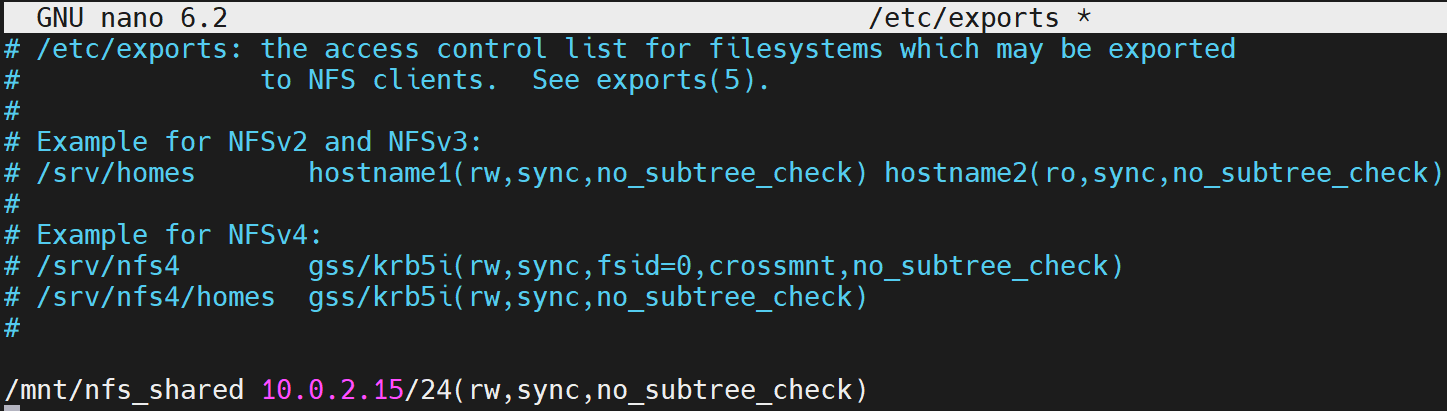
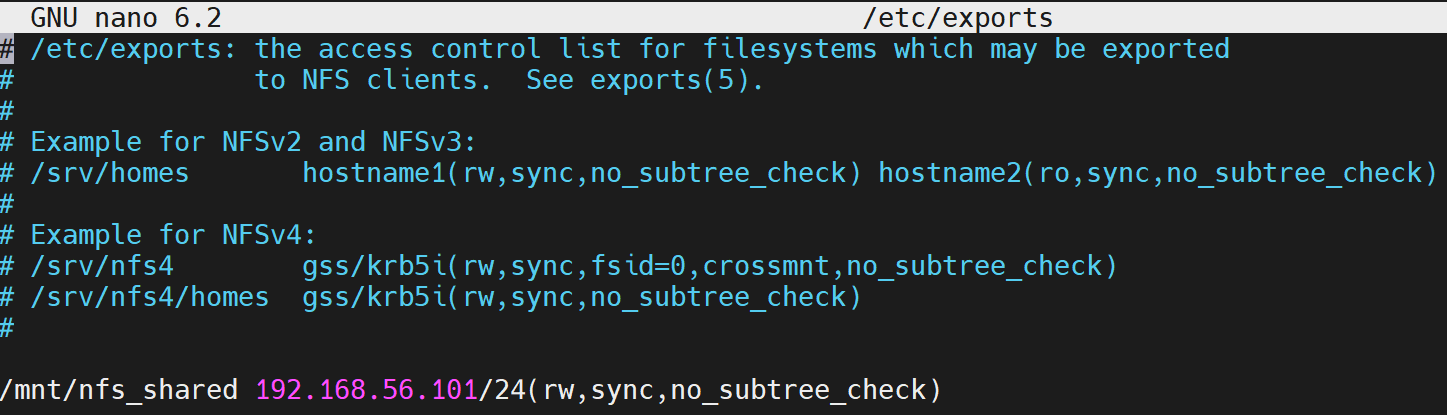
IP address updated

diff --git a/README.md b/README.md
@@ -41,11 +41,11 @@ In this step, we will grant access to the client system for accessing the NFS se
 
 `sudo nano /etc/exports`
 
-Now, it is up to us whether we want to grant access to the entire **subnet**, **single** or **multiple** clients. For instance, we will permit can entire subnet **10.0.2.15/24** to access the NFS shared:
+Now, it is up to us whether we want to grant access to the entire **subnet**, **single** or **multiple** clients. For instance, we will permit can entire subnet **192.168.56.101/24** to access the NFS shared:
 
 Following statement is used to grant access to a subnet. 
 
-`/mnt/nfs_share 10.0.2.15/24(rw,sync,no_subtree_check)`
+`/mnt/nfs_share 192.168.56.101/24(rw,sync,no_subtree_check)`
 
 <img src="./screenshots/3-NFS-Access-grant.png" width="80%" />
 
@@ -62,12 +62,14 @@ Now restart the NFS server using following command:
 ### Step 1 (H): RestartGrant Firewall access
 It is time to grant the Firewall access to the client system with the following **ufw** command:
 
-`sudo ufw allow from 10.0.2.15/24 to any port nfs`
+`sudo ufw allow from 192.168.56.101/24 to any port nfs`
 
 ### Step 1 (I): Enable Firewall
 Enable Firewall with **ufw** command and **enable** option:
 
 `sudo ufw enable`
 
-<img src="./screenshots/4-ufw-firewall.png" width="80%" />
+Status of the `ufw` firewall can be seen in following screenshot. 
+
+<img src="./screenshots/4-ufw-firewall.png" width="60%" />
 
